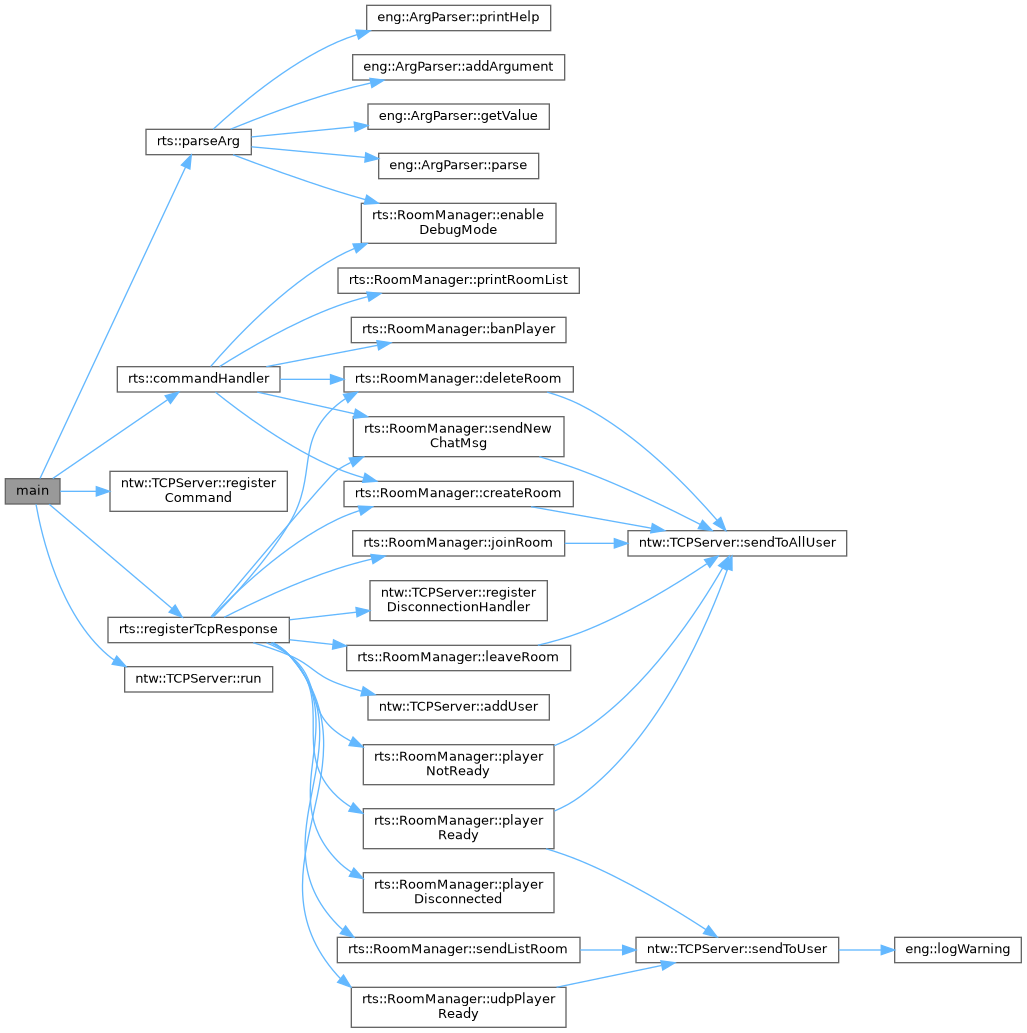
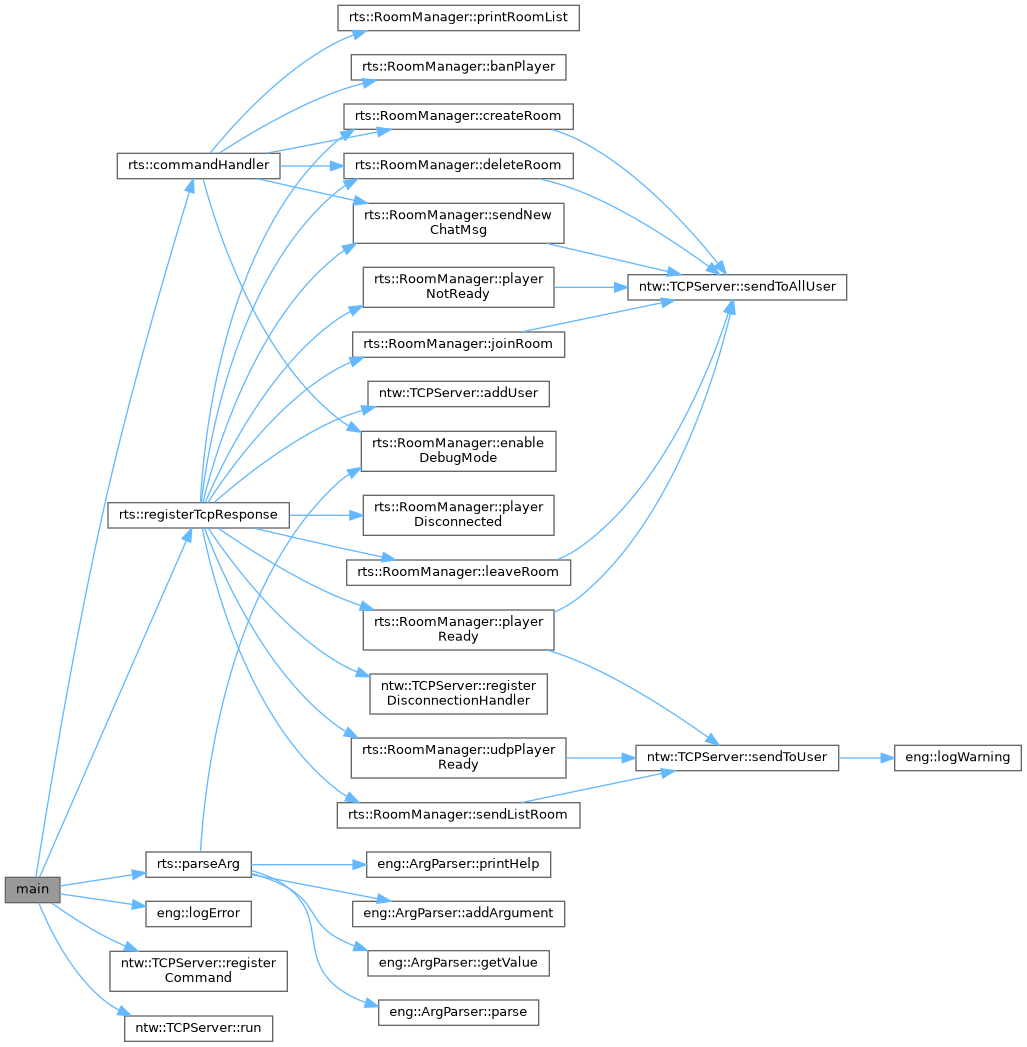
Deploying to gh-pages from @ ManuelR-T/R-Type@df79d58a2e4d690bf23c09cf2a06977621981276 🚀

diff --git a/da/d6a/server_2src_2main_8cpp.html b/da/d6a/server_2src_2main_8cpp.html
@@ -182,34 +182,35 @@ Here is the call graph for this function:</div>
 <div class="dyncontent">
 <div class="center"><img src="../../da/d6a/server_2src_2main_8cpp_ac0f2228420376f4db7e1274f2b41667c_cgraph.png" border="0" usemap="#ada/d6a/server_2src_2main_8cpp_ac0f2228420376f4db7e1274f2b41667c_cgraph" alt=""/></div>
 <map name="ada/d6a/server_2src_2main_8cpp_ac0f2228420376f4db7e1274f2b41667c_cgraph" id="ada/d6a/server_2src_2main_8cpp_ac0f2228420376f4db7e1274f2b41667c_cgraph">
-<area shape="rect" title=" " alt="" coords="5,479,60,504"/>
-<area shape="rect" href="../../d9/dbb/namespacerts.html#aa51ec9ff65f7e1fe91b37eddcf43fae4" title=" " alt="" coords="117,367,280,392"/>
-<area shape="rect" href="../../d9/dbb/namespacerts.html#a6f25eff6832e8db2cd0329e1d3a3c115" title=" " alt="" coords="146,129,251,155"/>
-<area shape="rect" href="../../d7/d65/classntw_1_1TCPServer.html#ae36851e6af20505c22deb596f2bf634c" title="Registers a command handler." alt="" coords="110,471,287,511"/>
-<area shape="rect" href="../../d9/dbb/namespacerts.html#ace888220f569c127503b3767aa092a98" title=" " alt="" coords="108,617,289,643"/>
-<area shape="rect" href="../../d7/d65/classntw_1_1TCPServer.html#a96e3d670fba7547cb443383cf05c07fe" title="Starts the server&#39;s event loop." alt="" coords="125,667,273,692"/>
-<area shape="rect" href="../../d1/d36/classrts_1_1RoomManager.html#ad36b880d333a6ddc7cfc84ed60cf9bd4" title=" " alt="" coords="351,317,566,343"/>
-<area shape="rect" href="../../d1/d36/classrts_1_1RoomManager.html#a27678b57dc5b8d5f69e08e4fde351259" title=" " alt="" coords="344,481,573,507"/>
-<area shape="rect" href="../../d1/d36/classrts_1_1RoomManager.html#a6dd4271d081a4a13274b26a0accd4c1e" title=" " alt="" coords="344,367,573,392"/>
-<area shape="rect" href="../../d1/d36/classrts_1_1RoomManager.html#a1a2058676232ec31ae60a9bf7252bcbb" title=" " alt="" coords="361,203,556,243"/>
-<area shape="rect" href="../../d1/d36/classrts_1_1RoomManager.html#ae8331d83dc1843c6b66cdbb304757a05" title=" " alt="" coords="338,268,579,293"/>
-<area shape="rect" href="../../d1/d36/classrts_1_1RoomManager.html#a6a95e0c72e076c518f624aeebfdee8f5" title=" " alt="" coords="353,417,564,457"/>
-<area shape="rect" href="../../d7/d65/classntw_1_1TCPServer.html#a8f10942d35d70b732407c0d9cba76c67" title="Sends data to all connected users." alt="" coords="628,531,847,556"/>
-<area shape="rect" href="../../dc/de1/classeng_1_1ArgParser.html#a61d5d0f1fa781b5eb974f888d144ba40" title="Adds a new argument to the parser." alt="" coords="353,55,565,80"/>
-<area shape="rect" href="../../dc/de1/classeng_1_1ArgParser.html#a8a6f3f5f519e7a7ba9ac1b0150f8f6ae" title="Retrieves the value of a parsed argument." alt="" coords="368,104,549,129"/>
-<area shape="rect" href="../../dc/de1/classeng_1_1ArgParser.html#a55c4c75333e2f893344961f263955fbe" title="Parses the command&#45;line arguments." alt="" coords="379,153,539,179"/>
-<area shape="rect" href="../../dc/de1/classeng_1_1ArgParser.html#a1b2a0229dbd418f211289d2ca56c0ee7" title="Prints the help message listing all available arguments." alt="" coords="367,5,551,31"/>
-<area shape="rect" href="../../d7/d65/classntw_1_1TCPServer.html#a9ad8e055ca6ebc9cc925a11a4a9b7889" title="Adds a new user session to the server." alt="" coords="368,695,549,720"/>
-<area shape="rect" href="../../d1/d36/classrts_1_1RoomManager.html#a72a2f0de6593c9da5340372513e619be" title=" " alt="" coords="353,531,565,556"/>
-<area shape="rect" href="../../d1/d36/classrts_1_1RoomManager.html#a362661cdf6f3b625c83943c01bb34166" title=" " alt="" coords="347,645,571,671"/>
-<area shape="rect" href="../../d1/d36/classrts_1_1RoomManager.html#a43258551715eea9393b3e58f38b788c1" title=" " alt="" coords="363,873,554,913"/>
-<area shape="rect" href="../../d1/d36/classrts_1_1RoomManager.html#a7d3e3627977021a43bcbebc2ab793c84" title=" " alt="" coords="363,745,554,785"/>
-<area shape="rect" href="../../d1/d36/classrts_1_1RoomManager.html#a3e2d1aa9dc85adfd499bea15b857cf2d" title=" " alt="" coords="363,809,554,849"/>
-<area shape="rect" href="../../d7/d65/classntw_1_1TCPServer.html#af319828376772fd8e1b629d4d2d724d8" title="Registers a disconnection handler." alt="" coords="370,581,547,621"/>
-<area shape="rect" href="../../d1/d36/classrts_1_1RoomManager.html#a56ea3326d527e86102ece5f5fc58281d" title=" " alt="" coords="337,937,580,963"/>
-<area shape="rect" href="../../d1/d36/classrts_1_1RoomManager.html#acb07c08164cf0ac481ce8755748cb2cd" title=" " alt="" coords="351,987,566,1027"/>
-<area shape="rect" href="../../d7/d65/classntw_1_1TCPServer.html#a691d2208f30c207827f9d93b85957881" title="Sends data to a specific user." alt="" coords="636,937,839,963"/>
-<area shape="rect" href="../../d5/d87/namespaceeng.html#ac95e1dcef5dafb5bda9e0b4e87021b27" title="Logs a warning message with source location." alt="" coords="895,937,1021,963"/>
+<area shape="rect" title=" " alt="" coords="5,877,60,903"/>
+<area shape="rect" href="../../d9/dbb/namespacerts.html#aa51ec9ff65f7e1fe91b37eddcf43fae4" title=" " alt="" coords="117,153,280,179"/>
+<area shape="rect" href="../../d5/d87/namespaceeng.html#a933f39a6c093a39ed3c6271e7ea7b9e4" title="Logs an error message with source location." alt="" coords="146,901,251,927"/>
+<area shape="rect" href="../../d9/dbb/namespacerts.html#a7c862524e18ff0eb911a9efd218c12d2" title=" " alt="" coords="146,852,251,877"/>
+<area shape="rect" href="../../d7/d65/classntw_1_1TCPServer.html#ae36851e6af20505c22deb596f2bf634c" title="Registers a command handler." alt="" coords="110,951,287,991"/>
+<area shape="rect" href="../../d9/dbb/namespacerts.html#ace888220f569c127503b3767aa092a98" title=" " alt="" coords="108,503,289,528"/>
+<area shape="rect" href="../../d7/d65/classntw_1_1TCPServer.html#a96e3d670fba7547cb443383cf05c07fe" title="Starts the server&#39;s event loop." alt="" coords="125,1016,273,1041"/>
+<area shape="rect" href="../../d1/d36/classrts_1_1RoomManager.html#ad36b880d333a6ddc7cfc84ed60cf9bd4" title=" " alt="" coords="351,55,566,80"/>
+<area shape="rect" href="../../d1/d36/classrts_1_1RoomManager.html#a27678b57dc5b8d5f69e08e4fde351259" title=" " alt="" coords="344,104,573,129"/>
+<area shape="rect" href="../../d1/d36/classrts_1_1RoomManager.html#a6dd4271d081a4a13274b26a0accd4c1e" title=" " alt="" coords="344,153,573,179"/>
+<area shape="rect" href="../../d1/d36/classrts_1_1RoomManager.html#a1a2058676232ec31ae60a9bf7252bcbb" title=" " alt="" coords="361,431,556,471"/>
+<area shape="rect" href="../../d1/d36/classrts_1_1RoomManager.html#ae8331d83dc1843c6b66cdbb304757a05" title=" " alt="" coords="338,5,579,31"/>
+<area shape="rect" href="../../d1/d36/classrts_1_1RoomManager.html#a6a95e0c72e076c518f624aeebfdee8f5" title=" " alt="" coords="353,203,564,243"/>
+<area shape="rect" href="../../d7/d65/classntw_1_1TCPServer.html#a8f10942d35d70b732407c0d9cba76c67" title="Sends data to all connected users." alt="" coords="628,275,847,300"/>
+<area shape="rect" href="../../dc/de1/classeng_1_1ArgParser.html#a61d5d0f1fa781b5eb974f888d144ba40" title="Adds a new argument to the parser." alt="" coords="353,901,565,927"/>
+<area shape="rect" href="../../dc/de1/classeng_1_1ArgParser.html#a8a6f3f5f519e7a7ba9ac1b0150f8f6ae" title="Retrieves the value of a parsed argument." alt="" coords="368,951,549,976"/>
+<area shape="rect" href="../../dc/de1/classeng_1_1ArgParser.html#a55c4c75333e2f893344961f263955fbe" title="Parses the command&#45;line arguments." alt="" coords="379,1000,539,1025"/>
+<area shape="rect" href="../../dc/de1/classeng_1_1ArgParser.html#a1b2a0229dbd418f211289d2ca56c0ee7" title="Prints the help message listing all available arguments." alt="" coords="367,852,551,877"/>
+<area shape="rect" href="../../d7/d65/classntw_1_1TCPServer.html#a9ad8e055ca6ebc9cc925a11a4a9b7889" title="Adds a new user session to the server." alt="" coords="368,381,549,407"/>
+<area shape="rect" href="../../d1/d36/classrts_1_1RoomManager.html#a72a2f0de6593c9da5340372513e619be" title=" " alt="" coords="353,332,565,357"/>
+<area shape="rect" href="../../d1/d36/classrts_1_1RoomManager.html#a362661cdf6f3b625c83943c01bb34166" title=" " alt="" coords="347,560,571,585"/>
+<area shape="rect" href="../../d1/d36/classrts_1_1RoomManager.html#a43258551715eea9393b3e58f38b788c1" title=" " alt="" coords="363,495,554,535"/>
+<area shape="rect" href="../../d1/d36/classrts_1_1RoomManager.html#a7d3e3627977021a43bcbebc2ab793c84" title=" " alt="" coords="363,267,554,307"/>
+<area shape="rect" href="../../d1/d36/classrts_1_1RoomManager.html#a3e2d1aa9dc85adfd499bea15b857cf2d" title=" " alt="" coords="363,610,554,650"/>
+<area shape="rect" href="../../d7/d65/classntw_1_1TCPServer.html#af319828376772fd8e1b629d4d2d724d8" title="Registers a disconnection handler." alt="" coords="370,674,547,714"/>
+<area shape="rect" href="../../d1/d36/classrts_1_1RoomManager.html#a56ea3326d527e86102ece5f5fc58281d" title=" " alt="" coords="337,803,580,828"/>
+<area shape="rect" href="../../d1/d36/classrts_1_1RoomManager.html#acb07c08164cf0ac481ce8755748cb2cd" title=" " alt="" coords="351,738,566,778"/>
+<area shape="rect" href="../../d7/d65/classntw_1_1TCPServer.html#a691d2208f30c207827f9d93b85957881" title="Sends data to a specific user." alt="" coords="636,745,839,771"/>
+<area shape="rect" href="../../d5/d87/namespaceeng.html#ac95e1dcef5dafb5bda9e0b4e87021b27" title="Logs a warning message with source location." alt="" coords="895,745,1021,771"/>
 </map>
 </div>
 

diff --git a/d9/dbb/namespacerts.html b/d9/dbb/namespacerts.html
@@ -109,8 +109,8 @@ Functions</h2></td></tr>
 <tr class="separator:ad2208ef4c394d2ad0ee334c64b737e1c"><td class="memSeparator" colspan="2">&#160;</td></tr>
 <tr class="memitem:a19246a2b8704dd602a3368c409758aab"><td class="memItemLeft" align="right" valign="top">void&#160;</td><td class="memItemRight" valign="bottom"><a class="el" href="../../d9/dbb/namespacerts.html#a19246a2b8704dd602a3368c409758aab">endGame</a> (std::list&lt; std::vector&lt; char &gt; &gt; &amp;datasToSend)</td></tr>
 <tr class="separator:a19246a2b8704dd602a3368c409758aab"><td class="memSeparator" colspan="2">&#160;</td></tr>
-<tr class="memitem:a6f25eff6832e8db2cd0329e1d3a3c115"><td class="memItemLeft" align="right" valign="top">int&#160;</td><td class="memItemRight" valign="bottom"><a class="el" href="../../d9/dbb/namespacerts.html#a6f25eff6832e8db2cd0329e1d3a3c115">parseArg</a> (int argc, const char **argv, <a class="el" href="../../d1/d36/classrts_1_1RoomManager.html">rts::RoomManager</a> &amp;roomManager)</td></tr>
-<tr class="separator:a6f25eff6832e8db2cd0329e1d3a3c115"><td class="memSeparator" colspan="2">&#160;</td></tr>
+<tr class="memitem:a7c862524e18ff0eb911a9efd218c12d2"><td class="memItemLeft" align="right" valign="top">int&#160;</td><td class="memItemRight" valign="bottom"><a class="el" href="../../d9/dbb/namespacerts.html#a7c862524e18ff0eb911a9efd218c12d2">parseArg</a> (int argc, const char **argv, <a class="el" href="../../d1/d36/classrts_1_1RoomManager.html">rts::RoomManager</a> &amp;roomManager, int &amp;port)</td></tr>
+<tr class="separator:a7c862524e18ff0eb911a9efd218c12d2"><td class="memSeparator" colspan="2">&#160;</td></tr>
 <tr class="memitem:a231375c5950d052c6144309475bc7bd9"><td class="memItemLeft" align="right" valign="top">void&#160;</td><td class="memItemRight" valign="bottom"><a class="el" href="../../d9/dbb/namespacerts.html#a231375c5950d052c6144309475bc7bd9">registerComponents</a> (<a class="el" href="../../df/dcd/classecs_1_1Registry.html">ecs::Registry</a> &amp;reg)</td></tr>
 <tr class="separator:a231375c5950d052c6144309475bc7bd9"><td class="memSeparator" colspan="2">&#160;</td></tr>
 <tr class="memitem:a27093062d8e9feaadb9e31c6eeba2581"><td class="memItemLeft" align="right" valign="top">void&#160;</td><td class="memItemRight" valign="bottom"><a class="el" href="../../d9/dbb/namespacerts.html#a27093062d8e9feaadb9e31c6eeba2581">registerSystems</a> (<a class="el" href="../../df/dcd/classecs_1_1Registry.html">ecs::Registry</a> &amp;reg, sf::RenderWindow &amp;window, float &amp;dt, <a class="el" href="../../d7/d07/classntw_1_1TickRateManager.html">ntw::TickRateManager</a>&lt; <a class="el" href="../../d9/dbb/namespacerts.html#a136a57d79c34feb8ccf69d73d41abf47">rts::TickRate</a> &gt; &amp;tickRateManager, <a class="el" href="../../da/dbf/classntw_1_1UDPServer.html">ntw::UDPServer</a> &amp;udpServer, std::list&lt; std::vector&lt; char &gt; &gt; &amp;datasToSend, <a class="el" href="../../df/df0/classeng_1_1SafeList.html">eng::SafeList</a>&lt; std::function&lt; void(<a class="el" href="../../df/dcd/classecs_1_1Registry.html">ecs::Registry</a> &amp;reg)&gt; &gt; &amp;networkCallbacks, <a class="el" href="../../d5/d35/classecs_1_1WaveManager.html">ecs::WaveManager</a> &amp;waveManager, bool debugMode, size_t &amp;nbPlayers)</td></tr>
@@ -328,8 +328,8 @@ Here is the caller graph for this function:</div>
 
 </div>
 </div>
-<a id="a6f25eff6832e8db2cd0329e1d3a3c115" name="a6f25eff6832e8db2cd0329e1d3a3c115"></a>
-<h2 class="memtitle"><span class="permalink"><a href="#a6f25eff6832e8db2cd0329e1d3a3c115">&#9670;&#160;</a></span>parseArg()</h2>
+<a id="a7c862524e18ff0eb911a9efd218c12d2" name="a7c862524e18ff0eb911a9efd218c12d2"></a>
+<h2 class="memtitle"><span class="permalink"><a href="#a7c862524e18ff0eb911a9efd218c12d2">&#9670;&#160;</a></span>parseArg()</h2>
 
 <div class="memitem">
 <div class="memproto">
@@ -350,7 +350,13 @@ Here is the caller graph for this function:</div>
           <td class="paramkey"></td>
           <td></td>
           <td class="paramtype"><a class="el" href="../../d1/d36/classrts_1_1RoomManager.html">rts::RoomManager</a> &amp;&#160;</td>
-          <td class="paramname"><em>roomManager</em>&#160;</td>
+          <td class="paramname"><em>roomManager</em>, </td>
+        </tr>
+        <tr>
+          <td class="paramkey"></td>
+          <td></td>
+          <td class="paramtype">int &amp;&#160;</td>
+          <td class="paramname"><em>port</em>&#160;</td>
         </tr>
         <tr>
           <td></td>
@@ -362,8 +368,8 @@ Here is the caller graph for this function:</div>
 <div class="dynheader">
 Here is the call graph for this function:</div>
 <div class="dyncontent">
-<div class="center"><img src="../../d9/dbb/namespacerts_a6f25eff6832e8db2cd0329e1d3a3c115_cgraph.png" border="0" usemap="#ad9/dbb/namespacerts_a6f25eff6832e8db2cd0329e1d3a3c115_cgraph" alt=""/></div>
-<map name="ad9/dbb/namespacerts_a6f25eff6832e8db2cd0329e1d3a3c115_cgraph" id="ad9/dbb/namespacerts_a6f25eff6832e8db2cd0329e1d3a3c115_cgraph">
+<div class="center"><img src="../../d9/dbb/namespacerts_a7c862524e18ff0eb911a9efd218c12d2_cgraph.png" border="0" usemap="#ad9/dbb/namespacerts_a7c862524e18ff0eb911a9efd218c12d2_cgraph" alt=""/></div>
+<map name="ad9/dbb/namespacerts_a7c862524e18ff0eb911a9efd218c12d2_cgraph" id="ad9/dbb/namespacerts_a7c862524e18ff0eb911a9efd218c12d2_cgraph">
 <area shape="rect" title=" " alt="" coords="5,120,111,145"/>
 <area shape="rect" href="../../dc/de1/classeng_1_1ArgParser.html#a61d5d0f1fa781b5eb974f888d144ba40" title="Adds a new argument to the parser." alt="" coords="159,5,371,31"/>
 <area shape="rect" href="../../d1/d36/classrts_1_1RoomManager.html#a1a2058676232ec31ae60a9bf7252bcbb" title=" " alt="" coords="167,55,362,95"/>
@@ -375,8 +381,8 @@ Here is the call graph for this function:</div>
 <div class="dynheader">
 Here is the caller graph for this function:</div>
 <div class="dyncontent">
-<div class="center"><img src="../../d9/dbb/namespacerts_a6f25eff6832e8db2cd0329e1d3a3c115_icgraph.png" border="0" usemap="#ad9/dbb/namespacerts_a6f25eff6832e8db2cd0329e1d3a3c115_icgraph" alt=""/></div>
-<map name="ad9/dbb/namespacerts_a6f25eff6832e8db2cd0329e1d3a3c115_icgraph" id="ad9/dbb/namespacerts_a6f25eff6832e8db2cd0329e1d3a3c115_icgraph">
+<div class="center"><img src="../../d9/dbb/namespacerts_a7c862524e18ff0eb911a9efd218c12d2_icgraph.png" border="0" usemap="#ad9/dbb/namespacerts_a7c862524e18ff0eb911a9efd218c12d2_icgraph" alt=""/></div>
+<map name="ad9/dbb/namespacerts_a7c862524e18ff0eb911a9efd218c12d2_icgraph" id="ad9/dbb/namespacerts_a7c862524e18ff0eb911a9efd218c12d2_icgraph">
 <area shape="rect" title=" " alt="" coords="108,5,213,31"/>
 <area shape="rect" href="../../da/d6a/server_2src_2main_8cpp.html#ac0f2228420376f4db7e1274f2b41667c" title=" " alt="" coords="5,5,60,31"/>
 </map>

diff --git a/db/d94/RTypeServer_8hpp_source.html b/db/d94/RTypeServer_8hpp_source.html
@@ -100,7 +100,7 @@ $(function() {
 <div class="line"><a id="l00022" name="l00022"></a><span class="lineno">   22</span><span class="preprocessor">#include &quot;<a class="code" href="../../d6/de9/UDPServer_8hpp.html">udp/UDPServer.hpp</a>&quot;</span></div>
 <div class="line"><a id="l00023" name="l00023"></a><span class="lineno">   23</span> </div>
 <div class="line"><a id="l00024" name="l00024"></a><span class="lineno">   24</span><span class="keyword">namespace </span><a class="code hl_namespace" href="../../d9/dbb/namespacerts.html">rts</a> {</div>
-<div class="line"><a id="l00025" name="l00025"></a><span class="lineno">   25</span><span class="keywordtype">int</span> <a class="code hl_function" href="../../d9/dbb/namespacerts.html#a6f25eff6832e8db2cd0329e1d3a3c115">parseArg</a>(<span class="keywordtype">int</span> argc, <span class="keyword">const</span> <span class="keywordtype">char</span> **argv, <a class="code hl_class" href="../../d1/d36/classrts_1_1RoomManager.html">rts::RoomManager</a> &amp;roomManager);</div>
+<div class="line"><a id="l00025" name="l00025"></a><span class="lineno">   25</span><span class="keywordtype">int</span> <a class="code hl_function" href="../../d9/dbb/namespacerts.html#a7c862524e18ff0eb911a9efd218c12d2">parseArg</a>(<span class="keywordtype">int</span> argc, <span class="keyword">const</span> <span class="keywordtype">char</span> **argv, <a class="code hl_class" href="../../d1/d36/classrts_1_1RoomManager.html">rts::RoomManager</a> &amp;roomManager, <span class="keywordtype">int</span> &amp;port);</div>
 <div class="line"><a id="l00026" name="l00026"></a><span class="lineno">   26</span><span class="keywordtype">void</span> <a class="code hl_function" href="../../d9/dbb/namespacerts.html#a231375c5950d052c6144309475bc7bd9">registerComponents</a>(<a class="code hl_class" href="../../df/dcd/classecs_1_1Registry.html">ecs::Registry</a> &amp;reg);</div>
 <div class="line"><a id="l00027" name="l00027"></a><span class="lineno">   27</span><span class="keywordtype">void</span> <a class="code hl_function" href="../../d9/dbb/namespacerts.html#a27093062d8e9feaadb9e31c6eeba2581">registerSystems</a>(</div>
 <div class="line"><a id="l00028" name="l00028"></a><span class="lineno">   28</span>    <a class="code hl_class" href="../../df/dcd/classecs_1_1Registry.html">ecs::Registry</a> &amp;reg,</div>
@@ -147,7 +147,7 @@ $(function() {
 <div class="ttc" id="anamespacerts_html"><div class="ttname"><a href="../../d9/dbb/namespacerts.html">rts</a></div><div class="ttdef"><b>Definition:</b> dobkeratops_ai.cpp:21</div></div>
 <div class="ttc" id="anamespacerts_html_a231375c5950d052c6144309475bc7bd9"><div class="ttname"><a href="../../d9/dbb/namespacerts.html#a231375c5950d052c6144309475bc7bd9">rts::registerComponents</a></div><div class="ttdeci">void registerComponents(ecs::Registry &amp;reg)</div><div class="ttdef"><b>Definition:</b> register_ecs.cpp:53</div></div>
 <div class="ttc" id="anamespacerts_html_a27093062d8e9feaadb9e31c6eeba2581"><div class="ttname"><a href="../../d9/dbb/namespacerts.html#a27093062d8e9feaadb9e31c6eeba2581">rts::registerSystems</a></div><div class="ttdeci">void registerSystems(ecs::Registry &amp;reg, sf::RenderWindow &amp;window, float &amp;dt, ntw::TickRateManager&lt; rts::TickRate &gt; &amp;tickRateManager, ntw::UDPServer &amp;udpServer, std::list&lt; std::vector&lt; char &gt; &gt; &amp;datasToSend, eng::SafeList&lt; std::function&lt; void(ecs::Registry &amp;reg)&gt; &gt; &amp;networkCallbacks, ecs::WaveManager &amp;waveManager, bool debugMode, size_t &amp;nbPlayers)</div><div class="ttdef"><b>Definition:</b> register_ecs.cpp:78</div></div>
-<div class="ttc" id="anamespacerts_html_a6f25eff6832e8db2cd0329e1d3a3c115"><div class="ttname"><a href="../../d9/dbb/namespacerts.html#a6f25eff6832e8db2cd0329e1d3a3c115">rts::parseArg</a></div><div class="ttdeci">int parseArg(int argc, const char **argv, rts::RoomManager &amp;roomManager)</div><div class="ttdef"><b>Definition:</b> parse_arg.cpp:12</div></div>
+<div class="ttc" id="anamespacerts_html_a7c862524e18ff0eb911a9efd218c12d2"><div class="ttname"><a href="../../d9/dbb/namespacerts.html#a7c862524e18ff0eb911a9efd218c12d2">rts::parseArg</a></div><div class="ttdeci">int parseArg(int argc, const char **argv, rts::RoomManager &amp;roomManager, int &amp;port)</div><div class="ttdef"><b>Definition:</b> parse_arg.cpp:12</div></div>
 <div class="ttc" id="anamespacerts_html_aa07c177913a9df7337c3cabec9b19816"><div class="ttname"><a href="../../d9/dbb/namespacerts.html#aa07c177913a9df7337c3cabec9b19816">rts::registerUdpResponse</a></div><div class="ttdeci">void registerUdpResponse(rt::UDPResponseHandler &amp;responseHandler, std::list&lt; std::vector&lt; char &gt; &gt; &amp;datasToSend, eng::SafeList&lt; std::function&lt; void(ecs::Registry &amp;reg)&gt; &gt; &amp;networkCallbacks, ntw::UDPServer &amp;udpServer, ntw::TimeoutHandler &amp;timeoutHandler, std::atomic&lt; bool &gt; &amp;stopGame)</div><div class="ttdef"><b>Definition:</b> register_udp_response.cpp:100</div></div>
 <div class="ttc" id="anamespacerts_html_aa0e770487054b04b00f84c9aa1f18a7d"><div class="ttname"><a href="../../d9/dbb/namespacerts.html#aa0e770487054b04b00f84c9aa1f18a7d">rts::initWaves</a></div><div class="ttdeci">void initWaves(ecs::WaveManager &amp;waveManager, std::list&lt; std::vector&lt; char &gt; &gt; &amp;datasToSend, int missileSpawnRate)</div></div>
 <div class="ttc" id="anamespacerts_html_aa51ec9ff65f7e1fe91b37eddcf43fae4"><div class="ttname"><a href="../../d9/dbb/namespacerts.html#aa51ec9ff65f7e1fe91b37eddcf43fae4">rts::commandHandler</a></div><div class="ttdeci">void commandHandler(std::string &amp;str, rts::RoomManager &amp;roomManager, ntw::TCPServer &amp;tcpServer)</div><div class="ttdef"><b>Definition:</b> command_handler.cpp:13</div></div>

diff --git a/dc/de1/classeng_1_1ArgParser.html b/dc/de1/classeng_1_1ArgParser.html
@@ -243,7 +243,7 @@ Here is the caller graph for this function:</div>
 <map name="adc/de1/classeng_1_1ArgParser_a61d5d0f1fa781b5eb974f888d144ba40_icgraph" id="adc/de1/classeng_1_1ArgParser_a61d5d0f1fa781b5eb974f888d144ba40_icgraph">
 <area shape="rect" title="Adds a new argument to the parser." alt="" coords="261,31,473,56"/>
 <area shape="rect" href="../../d1/daf/client_2src_2main_8cpp.html#ac0f2228420376f4db7e1274f2b41667c" title=" " alt="" coords="133,5,188,31"/>
-<area shape="rect" href="../../d9/dbb/namespacerts.html#a6f25eff6832e8db2cd0329e1d3a3c115" title=" " alt="" coords="108,55,213,80"/>
+<area shape="rect" href="../../d9/dbb/namespacerts.html#a7c862524e18ff0eb911a9efd218c12d2" title=" " alt="" coords="108,55,213,80"/>
 <area shape="rect" href="../../da/d6a/server_2src_2main_8cpp.html#ac0f2228420376f4db7e1274f2b41667c" title=" " alt="" coords="5,55,60,80"/>
 </map>
 </div>
@@ -304,7 +304,7 @@ Here is the caller graph for this function:</div>
 <map name="adc/de1/classeng_1_1ArgParser_a8a6f3f5f519e7a7ba9ac1b0150f8f6ae_icgraph" id="adc/de1/classeng_1_1ArgParser_a8a6f3f5f519e7a7ba9ac1b0150f8f6ae_icgraph">
 <area shape="rect" title="Retrieves the value of a parsed argument." alt="" coords="261,31,443,56"/>
 <area shape="rect" href="../../d1/daf/client_2src_2main_8cpp.html#ac0f2228420376f4db7e1274f2b41667c" title=" " alt="" coords="133,5,188,31"/>
-<area shape="rect" href="../../d9/dbb/namespacerts.html#a6f25eff6832e8db2cd0329e1d3a3c115" title=" " alt="" coords="108,55,213,80"/>
+<area shape="rect" href="../../d9/dbb/namespacerts.html#a7c862524e18ff0eb911a9efd218c12d2" title=" " alt="" coords="108,55,213,80"/>
 <area shape="rect" href="../../da/d6a/server_2src_2main_8cpp.html#ac0f2228420376f4db7e1274f2b41667c" title=" " alt="" coords="5,55,60,80"/>
 </map>
 </div>
@@ -404,7 +404,7 @@ Here is the caller graph for this function:</div>
 <map name="adc/de1/classeng_1_1ArgParser_a55c4c75333e2f893344961f263955fbe_icgraph" id="adc/de1/classeng_1_1ArgParser_a55c4c75333e2f893344961f263955fbe_icgraph">
 <area shape="rect" title="Parses the command&#45;line arguments." alt="" coords="261,31,421,56"/>
 <area shape="rect" href="../../d1/daf/client_2src_2main_8cpp.html#ac0f2228420376f4db7e1274f2b41667c" title=" " alt="" coords="133,5,188,31"/>
-<area shape="rect" href="../../d9/dbb/namespacerts.html#a6f25eff6832e8db2cd0329e1d3a3c115" title=" " alt="" coords="108,55,213,80"/>
+<area shape="rect" href="../../d9/dbb/namespacerts.html#a7c862524e18ff0eb911a9efd218c12d2" title=" " alt="" coords="108,55,213,80"/>
 <area shape="rect" href="../../da/d6a/server_2src_2main_8cpp.html#ac0f2228420376f4db7e1274f2b41667c" title=" " alt="" coords="5,55,60,80"/>
 </map>
 </div>
@@ -435,7 +435,7 @@ Here is the caller graph for this function:</div>
 <map name="adc/de1/classeng_1_1ArgParser_a1b2a0229dbd418f211289d2ca56c0ee7_icgraph" id="adc/de1/classeng_1_1ArgParser_a1b2a0229dbd418f211289d2ca56c0ee7_icgraph">
 <area shape="rect" title="Prints the help message listing all available arguments." alt="" coords="261,31,445,56"/>
 <area shape="rect" href="../../d1/daf/client_2src_2main_8cpp.html#ac0f2228420376f4db7e1274f2b41667c" title=" " alt="" coords="133,5,188,31"/>
-<area shape="rect" href="../../d9/dbb/namespacerts.html#a6f25eff6832e8db2cd0329e1d3a3c115" title=" " alt="" coords="108,55,213,80"/>
+<area shape="rect" href="../../d9/dbb/namespacerts.html#a7c862524e18ff0eb911a9efd218c12d2" title=" " alt="" coords="108,55,213,80"/>
 <area shape="rect" href="../../da/d6a/server_2src_2main_8cpp.html#ac0f2228420376f4db7e1274f2b41667c" title=" " alt="" coords="5,55,60,80"/>
 </map>
 </div>

diff --git a/db/d94/RTypeServer_8hpp.html b/db/d94/RTypeServer_8hpp.html
@@ -174,8 +174,8 @@ Namespaces</h2></td></tr>
 </table><table class="memberdecls">
 <tr class="heading"><td colspan="2"><h2 class="groupheader"><a id="func-members" name="func-members"></a>
 Functions</h2></td></tr>
-<tr class="memitem:a6f25eff6832e8db2cd0329e1d3a3c115"><td class="memItemLeft" align="right" valign="top">int&#160;</td><td class="memItemRight" valign="bottom"><a class="el" href="../../d9/dbb/namespacerts.html#a6f25eff6832e8db2cd0329e1d3a3c115">rts::parseArg</a> (int argc, const char **argv, <a class="el" href="../../d1/d36/classrts_1_1RoomManager.html">rts::RoomManager</a> &amp;roomManager)</td></tr>
-<tr class="separator:a6f25eff6832e8db2cd0329e1d3a3c115"><td class="memSeparator" colspan="2">&#160;</td></tr>
+<tr class="memitem:a7c862524e18ff0eb911a9efd218c12d2"><td class="memItemLeft" align="right" valign="top">int&#160;</td><td class="memItemRight" valign="bottom"><a class="el" href="../../d9/dbb/namespacerts.html#a7c862524e18ff0eb911a9efd218c12d2">rts::parseArg</a> (int argc, const char **argv, <a class="el" href="../../d1/d36/classrts_1_1RoomManager.html">rts::RoomManager</a> &amp;roomManager, int &amp;port)</td></tr>
+<tr class="separator:a7c862524e18ff0eb911a9efd218c12d2"><td class="memSeparator" colspan="2">&#160;</td></tr>
 <tr class="memitem:a231375c5950d052c6144309475bc7bd9"><td class="memItemLeft" align="right" valign="top">void&#160;</td><td class="memItemRight" valign="bottom"><a class="el" href="../../d9/dbb/namespacerts.html#a231375c5950d052c6144309475bc7bd9">rts::registerComponents</a> (<a class="el" href="../../df/dcd/classecs_1_1Registry.html">ecs::Registry</a> &amp;reg)</td></tr>
 <tr class="separator:a231375c5950d052c6144309475bc7bd9"><td class="memSeparator" colspan="2">&#160;</td></tr>
 <tr class="memitem:a27093062d8e9feaadb9e31c6eeba2581"><td class="memItemLeft" align="right" valign="top">void&#160;</td><td class="memItemRight" valign="bottom"><a class="el" href="../../d9/dbb/namespacerts.html#a27093062d8e9feaadb9e31c6eeba2581">rts::registerSystems</a> (<a class="el" href="../../df/dcd/classecs_1_1Registry.html">ecs::Registry</a> &amp;reg, sf::RenderWindow &amp;window, float &amp;dt, <a class="el" href="../../d7/d07/classntw_1_1TickRateManager.html">ntw::TickRateManager</a>&lt; <a class="el" href="../../d9/dbb/namespacerts.html#a136a57d79c34feb8ccf69d73d41abf47">rts::TickRate</a> &gt; &amp;tickRateManager, <a class="el" href="../../da/dbf/classntw_1_1UDPServer.html">ntw::UDPServer</a> &amp;udpServer, std::list&lt; std::vector&lt; char &gt; &gt; &amp;datasToSend, <a class="el" href="../../df/df0/classeng_1_1SafeList.html">eng::SafeList</a>&lt; std::function&lt; void(<a class="el" href="../../df/dcd/classecs_1_1Registry.html">ecs::Registry</a> &amp;reg)&gt; &gt; &amp;networkCallbacks, <a class="el" href="../../d5/d35/classecs_1_1WaveManager.html">ecs::WaveManager</a> &amp;waveManager, bool debugMode, size_t &amp;nbPlayers)</td></tr>

diff --git a/search/all_10.js b/search/all_10.js
@@ -6,7 +6,7 @@ var searchData=
   ['parallax_2ehpp_3',['parallax.hpp',['../de/d44/components_2parallax_8hpp.html',1,'(Global Namespace)'],['../dd/da2/systems_2parallax_8hpp.html',1,'(Global Namespace)']]],
   ['parse_4',['parse',['../dc/de1/classeng_1_1ArgParser.html#a55c4c75333e2f893344961f263955fbe',1,'eng::ArgParser']]],
   ['parse_5farg_2ecpp_5',['parse_arg.cpp',['../da/df0/parse__arg_8cpp.html',1,'']]],
-  ['parsearg_6',['parseArg',['../d9/dbb/namespacerts.html#a6f25eff6832e8db2cd0329e1d3a3c115',1,'rts']]],
+  ['parsearg_6',['parseArg',['../d9/dbb/namespacerts.html#a7c862524e18ff0eb911a9efd218c12d2',1,'rts']]],
   ['particle_5fspawner_2ehpp_7',['particle_spawner.hpp',['../d0/db5/particle__spawner_8hpp.html',1,'']]],
   ['particlespawner_8',['ParticleSpawner',['../db/d05/structecs_1_1component_1_1ParticleSpawner.html',1,'ecs::component']]],
   ['pausemusic_9',['pauseMusic',['../dc/dcf/classecs_1_1SoundManager.html#a70034de6af111a540eddc35740e87359',1,'ecs::SoundManager']]],

diff --git a/search/functions_10.js b/search/functions_10.js
@@ -2,7 +2,7 @@ var searchData=
 [
   ['parallax_0',['parallax',['../db/d9a/namespaceecs_1_1systems.html#aea6294e292d9fc2811906098f9c6caca',1,'ecs::systems']]],
   ['parse_1',['parse',['../dc/de1/classeng_1_1ArgParser.html#a55c4c75333e2f893344961f263955fbe',1,'eng::ArgParser']]],
-  ['parsearg_2',['parseArg',['../d9/dbb/namespacerts.html#a6f25eff6832e8db2cd0329e1d3a3c115',1,'rts']]],
+  ['parsearg_2',['parseArg',['../d9/dbb/namespacerts.html#a7c862524e18ff0eb911a9efd218c12d2',1,'rts']]],
   ['pausemusic_3',['pauseMusic',['../dc/dcf/classecs_1_1SoundManager.html#a70034de6af111a540eddc35740e87359',1,'ecs::SoundManager']]],
   ['playerdisconnected_4',['playerDisconnected',['../d1/d36/classrts_1_1RoomManager.html#a43258551715eea9393b3e58f38b788c1',1,'rts::RoomManager']]],
   ['playernotready_5',['playerNotReady',['../d1/d36/classrts_1_1RoomManager.html#a7d3e3627977021a43bcbebc2ab793c84',1,'rts::RoomManager']]],

diff --git a/d1/d36/classrts_1_1RoomManager.html b/d1/d36/classrts_1_1RoomManager.html
@@ -335,7 +335,7 @@ Here is the caller graph for this function:</div>
 <map name="ad1/d36/classrts_1_1RoomManager_a1a2058676232ec31ae60a9bf7252bcbb_icgraph" id="ad1/d36/classrts_1_1RoomManager_a1a2058676232ec31ae60a9bf7252bcbb_icgraph">
 <area shape="rect" title=" " alt="" coords="319,23,513,63"/>
 <area shape="rect" href="../../d9/dbb/namespacerts.html#aa51ec9ff65f7e1fe91b37eddcf43fae4" title=" " alt="" coords="108,5,271,31"/>
-<area shape="rect" href="../../d9/dbb/namespacerts.html#a6f25eff6832e8db2cd0329e1d3a3c115" title=" " alt="" coords="137,55,242,80"/>
+<area shape="rect" href="../../d9/dbb/namespacerts.html#a7c862524e18ff0eb911a9efd218c12d2" title=" " alt="" coords="137,55,242,80"/>
 <area shape="rect" href="../../da/d6a/server_2src_2main_8cpp.html#ac0f2228420376f4db7e1274f2b41667c" title=" " alt="" coords="5,31,60,56"/>
 </map>
 </div>

diff --git a/namespacemembers.html b/namespacemembers.html
@@ -171,7 +171,7 @@ $(function() {
 
 <h3><a id="index_p" name="index_p"></a>- p -</h3><ul>
 <li>parallax()&#160;:&#160;<a class="el" href="db/d9a/namespaceecs_1_1systems.html#aea6294e292d9fc2811906098f9c6caca">ecs::systems</a></li>
-<li>parseArg()&#160;:&#160;<a class="el" href="d9/dbb/namespacerts.html#a6f25eff6832e8db2cd0329e1d3a3c115">rts</a></li>
+<li>parseArg()&#160;:&#160;<a class="el" href="d9/dbb/namespacerts.html#a7c862524e18ff0eb911a9efd218c12d2">rts</a></li>
 <li>position()&#160;:&#160;<a class="el" href="db/d9a/namespaceecs_1_1systems.html#a26eec6630c84111b72cc904780913b1a">ecs::systems</a></li>
 </ul>
 

diff --git a/namespacemembers_func.html b/namespacemembers_func.html
@@ -157,7 +157,7 @@ $(function() {
 
 <h3><a id="index_p" name="index_p"></a>- p -</h3><ul>
 <li>parallax()&#160;:&#160;<a class="el" href="db/d9a/namespaceecs_1_1systems.html#aea6294e292d9fc2811906098f9c6caca">ecs::systems</a></li>
-<li>parseArg()&#160;:&#160;<a class="el" href="d9/dbb/namespacerts.html#a6f25eff6832e8db2cd0329e1d3a3c115">rts</a></li>
+<li>parseArg()&#160;:&#160;<a class="el" href="d9/dbb/namespacerts.html#a7c862524e18ff0eb911a9efd218c12d2">rts</a></li>
 <li>position()&#160;:&#160;<a class="el" href="db/d9a/namespaceecs_1_1systems.html#a26eec6630c84111b72cc904780913b1a">ecs::systems</a></li>
 </ul>
 
